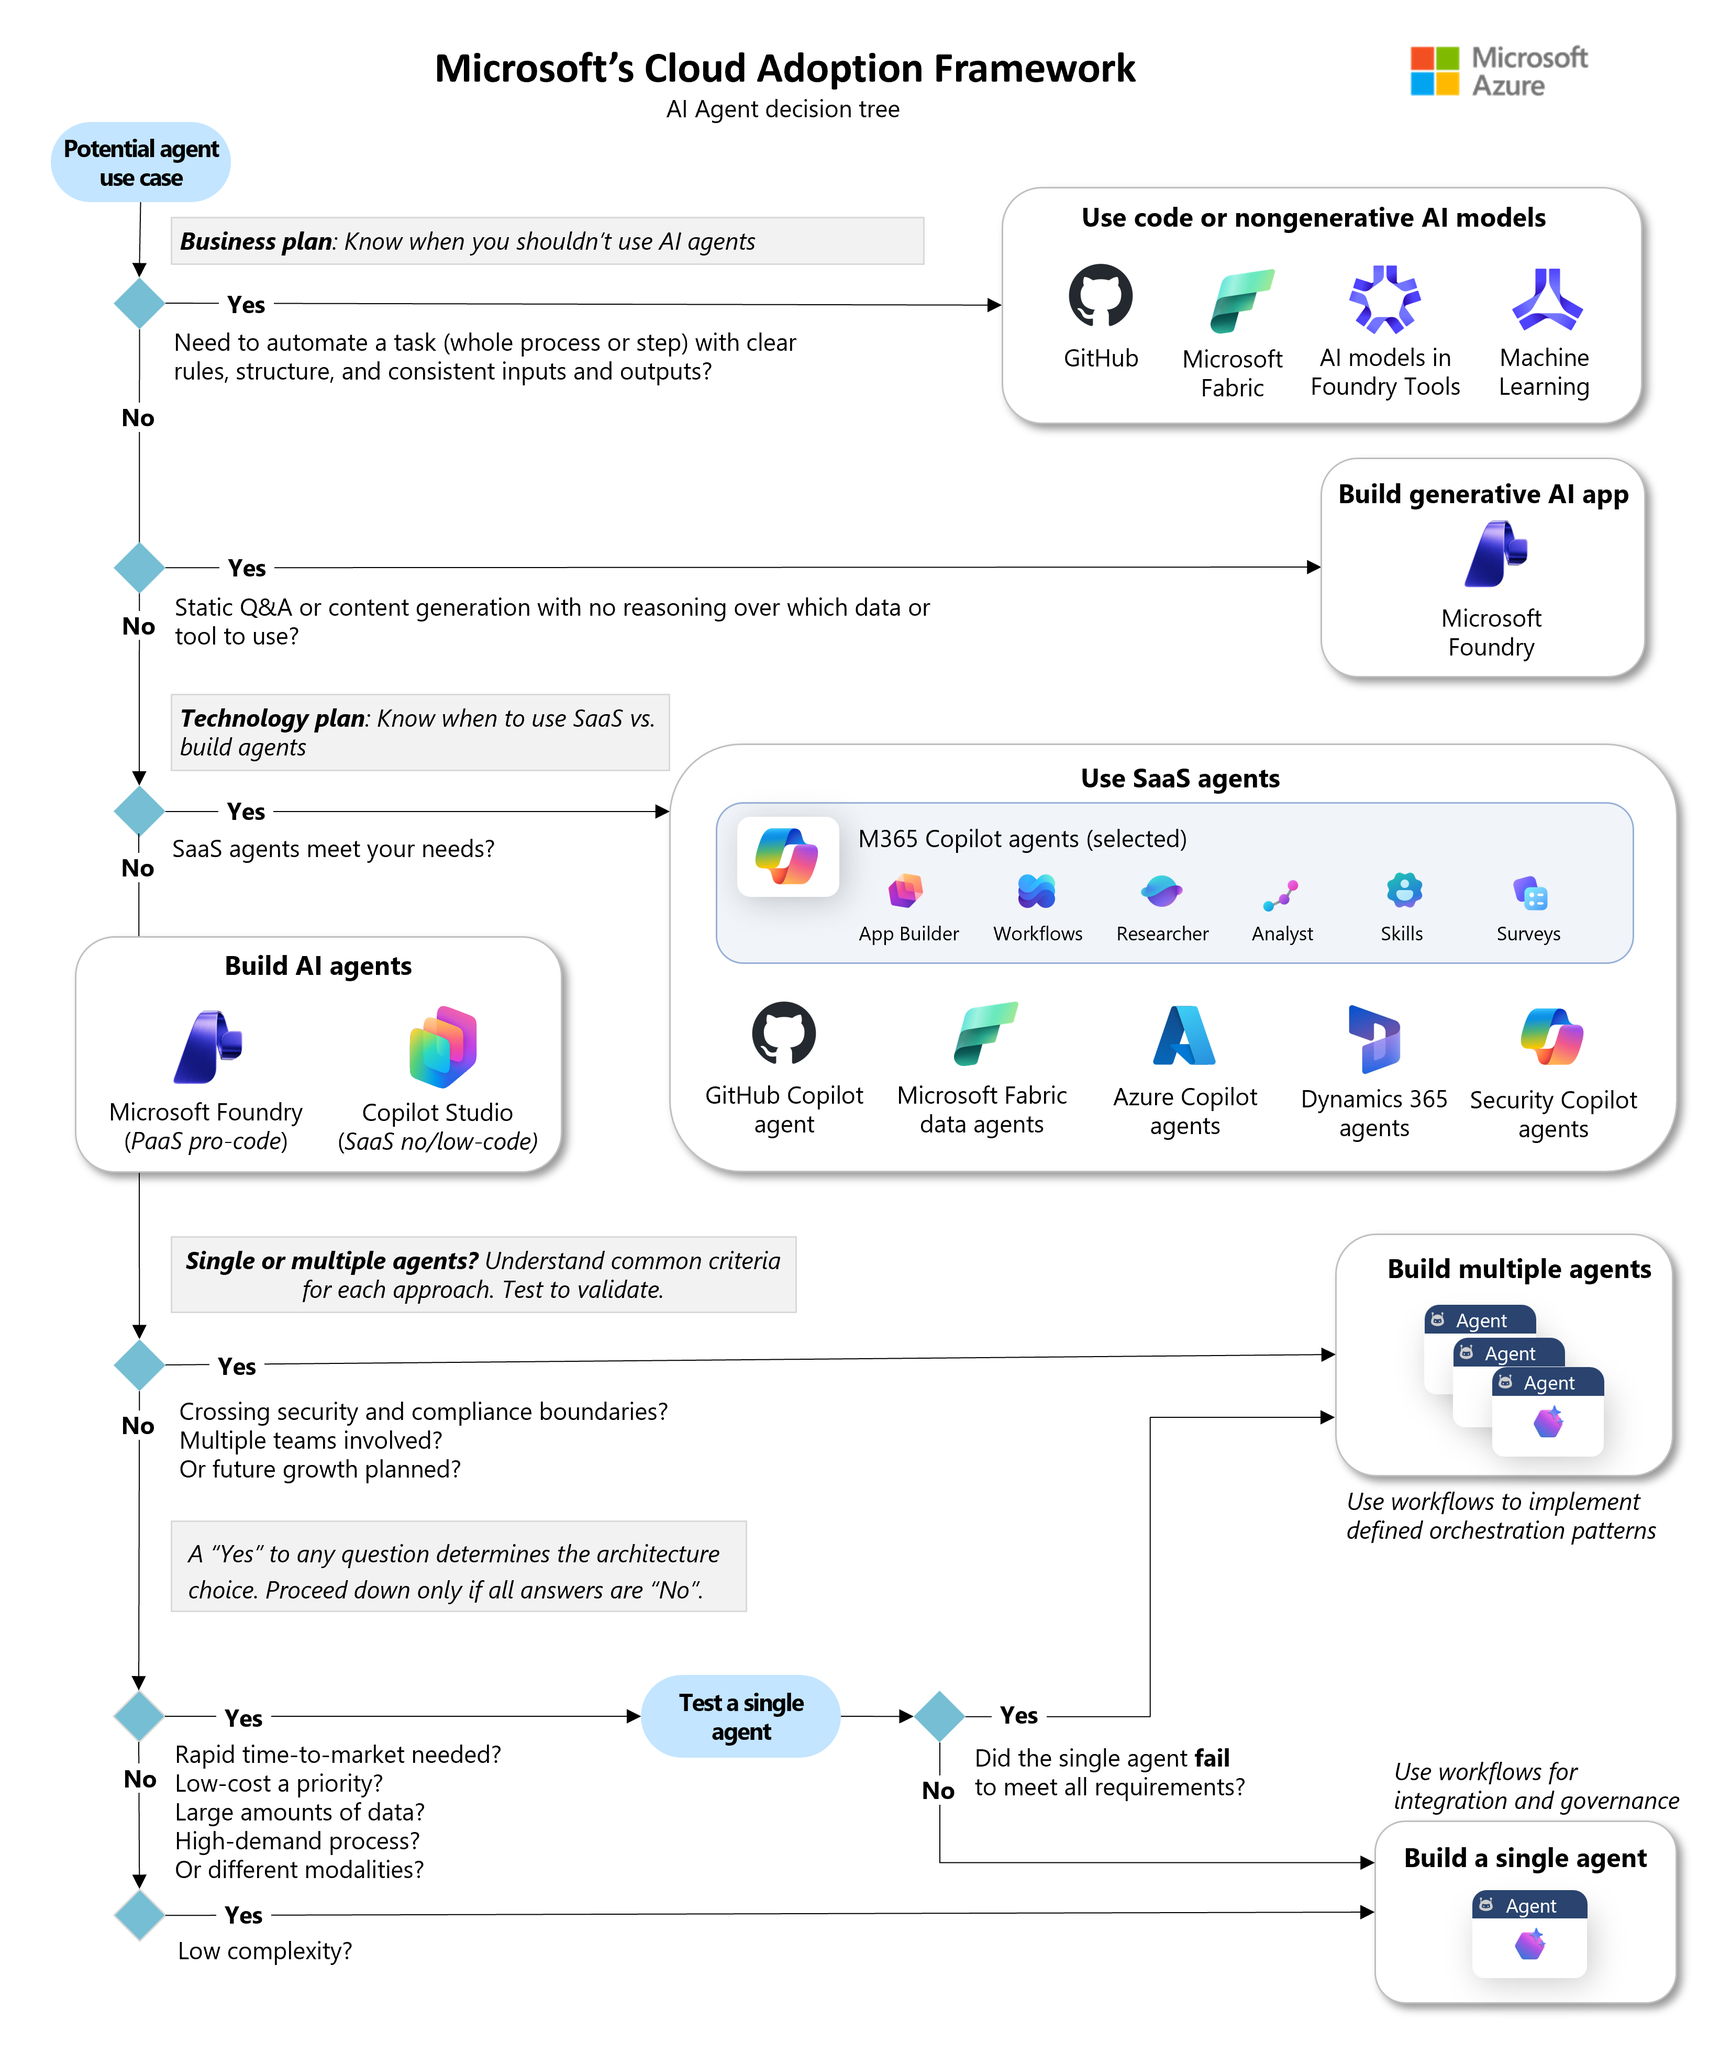
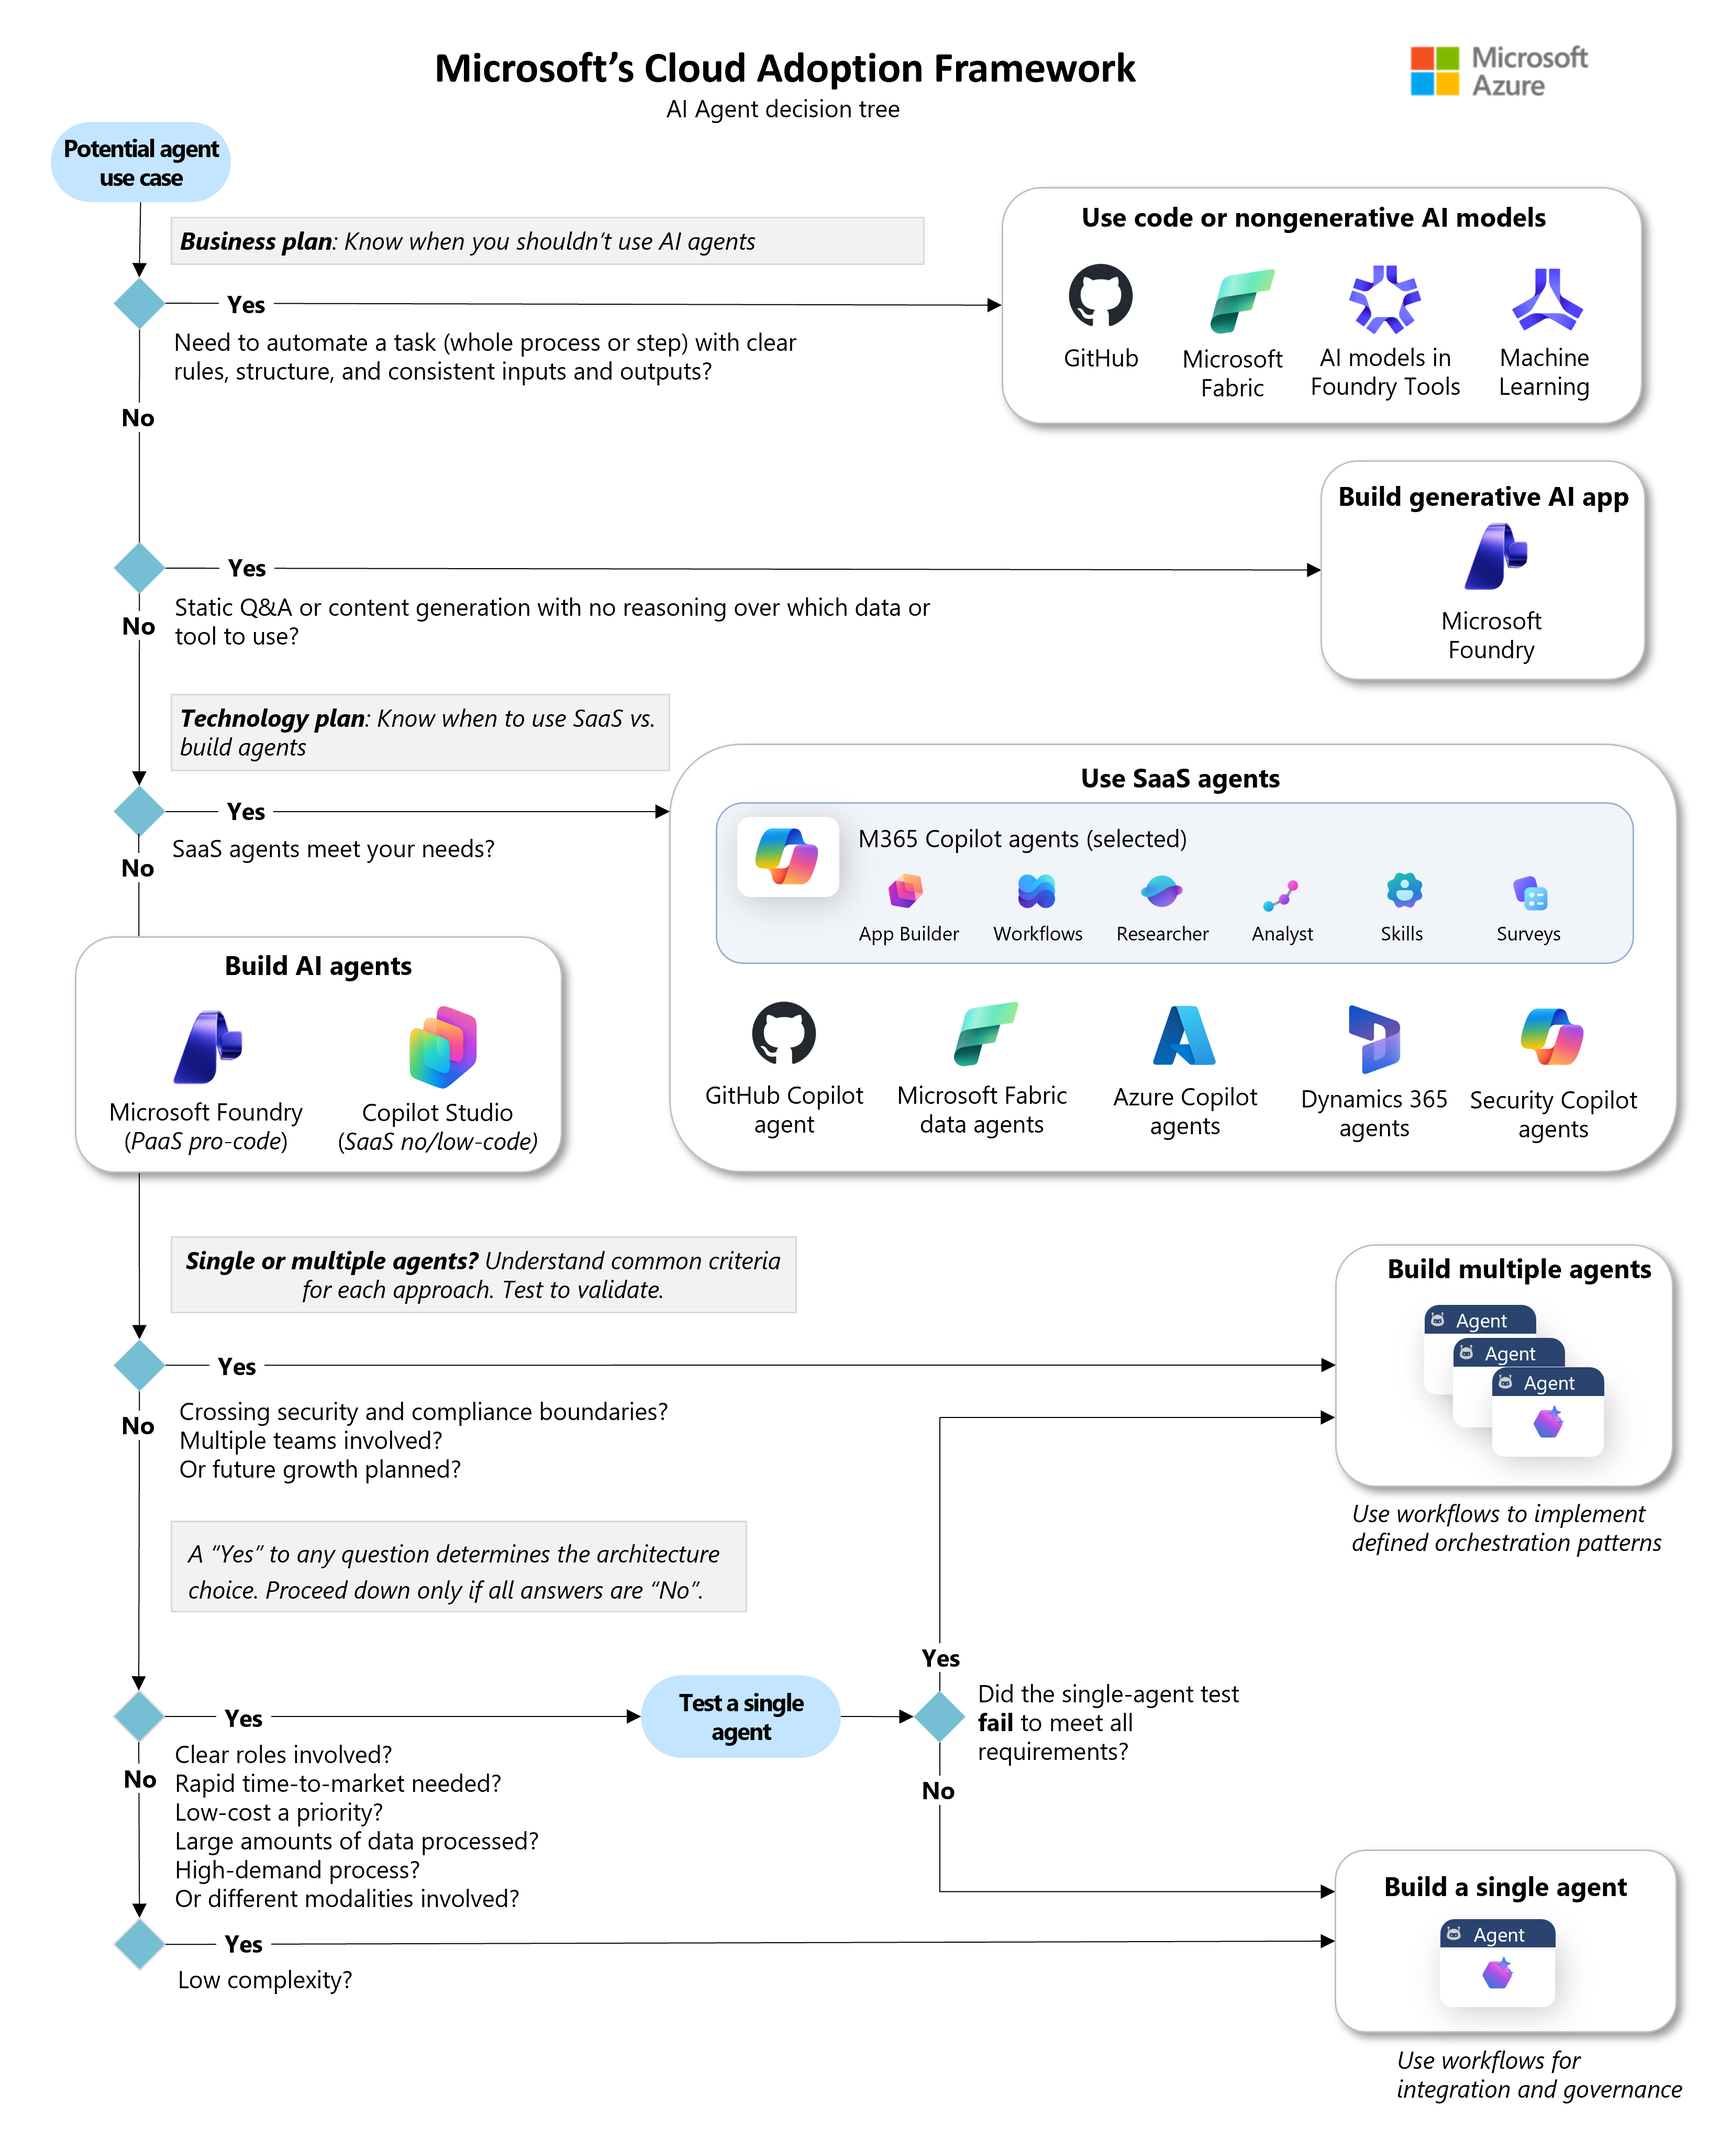
update

diff --git a/docs/ai-agents/single-agent-multiple-agents.md b/docs/ai-agents/single-agent-multiple-agents.md
@@ -29,7 +29,7 @@ Multi-agent systems employ specialized agents to handle distinct tasks or roles 
 
 ### Mutli-agent orchestration and workflows
 
-Multi-agent systems use workflows to enforce orchestration patterns. See [AI agent orchestration patterns](/azure/architecture/ai-ml/guide/ai-agent-design-patterns) in the Azure Architecture Center. Without a workflow, manual chaining of agents becomes brittle and difficult to maintain. Workflows provide:
+Multi-agent systems use workflows to enforce [orchestration patterns](/azure/architecture/ai-ml/guide/ai-agent-design-patterns) in the Azure Architecture Center. Without a workflow, manual chaining of agents becomes brittle and difficult to maintain. Workflows provide:
 
 | Workflow capability | Purpose |
 |---|---|
@@ -48,17 +48,17 @@ In addition to coordination requirements, each interaction requires protocol des
 
 Teams often default to multi-agent architectures based on untested assumptions about complexity, performance, or role separation. Before committing to orchestration overhead, always start with a single-agent prototype and validate whether it meets requirements. Move to multi-agent only if testing shows clear limitations. Focus prototyping on these decision drivers:
 
-1. **Rapid time-to-market.** Single agents are simpler and faster to implement. Start with a single-agent prototype to validate speed and user feedback before considering multi-agent architectures. This approach minimizes initial development time and allows for quicker iteration based on real-world usage.
+1. **Clear roles identified.** Prototype with a single agent using persona-switching or distinct system prompts. Adopt multi-agent designs only if strict security boundaries or distinct organizational ownership make a unified agent insufficient. Many role-based requirements can be met by a single agent dynamically adjusting its behavior based on context.
 
-2. **Cost efficiency.** Single-agent designs minimize token usage and API call volume. Prototype with a single agent first to confirm cost benefits before adding orchestration complexity. Multi-agent systems often multiply costs through redundant context processing and inter-agent communication, so validating the necessity of this expense is crucial.
+2. **Rapid time-to-market.** Single agents are simpler and faster to implement. Start with a single-agent prototype to validate speed and user feedback before considering multi-agent architectures. This approach minimizes initial development time and allows for quicker iteration based on real-world usage.
 
-3. **Large amounts of data.** Test whether a single agent with Retrieval-Augmented Generation (RAG) or extended context windows can handle the required data volume. Move to multi-agent architectures only if context degradation or hallucination occurs during testing. Often, efficient data retrieval strategies can resolve capacity issues without the need for multiple agents.
+3. **Cost efficiency.** Single-agent designs minimize token usage and API call volume. Prototype with a single agent first to confirm cost benefits before adding orchestration complexity. Multi-agent systems often multiply costs through redundant context processing and inter-agent communication, so validating the necessity of this expense is crucial.
 
-4. **Clear roles identified.** Prototype with a single agent using persona-switching or distinct system prompts. Adopt multi-agent designs only if strict security boundaries or distinct organizational ownership make a unified agent insufficient. Many role-based requirements can be met by a single agent dynamically adjusting its behavior based on context.
+4. **Large amounts of data.** Test whether a single agent with Retrieval-Augmented Generation (RAG) or extended context windows can handle the required data volume. Move to multi-agent architectures only if context degradation or hallucination occurs during testing. Often, efficient data retrieval strategies can resolve capacity issues without the need for multiple agents.
 
 5. **High-demand process.** Measure throughput and latency with a single agent under load. Move to multi-agent architectures only if parallelization provides significant, measurable gains. While multi-agent systems can offer concurrency, the overhead of coordination can sometimes negate performance benefits in simpler high-demand scenarios.
 
-6. **Different modalities.** Start with a single multimodal model and appropriate tools. Use multi-agent architectures only if specialized models deliver critical performance or cost advantages that a generalist model cannot match. Specialized agents are justified when specific modalities (like complex image analysis or audio processing) require distinct optimization or resource allocation.
+6. **Different modalities involved.** Start with a single multimodal model and appropriate tools. Use multi-agent architectures only if specialized models deliver critical performance or cost advantages that a generalist model cannot match. Specialized agents are justified when specific modalities (like complex image analysis or audio processing) require distinct optimization or resource allocation.
 
 ## Build a single agent system
 

diff --git a/AGENTS.md b/AGENTS.md
@@ -1,6 +1,5 @@
 **Purpose:**  
-Review existing guidance so it is practical. Rather than providing guidance that covers everything concisely, focus on the major decision points and provide enough context so that they are successful with those understand what they need to do.
-
+Ensure the guidance is practical for enterprise architects. Rather than providing guidance that covers everything concisely, focus on the major decision points and provide enough context so that they are successful with those understand what they need to do. The output should help readers make informed decisions. Focus on the most important guidance so that the guidance there is well understood and explained but the overall length of the article is still actionable.
 
 *   **Business and Strategy Guidance (Implicitly targets CTOs and C-suite)**
     *   Align technology decisions with business strategy and competitive advantage.
@@ -11,10 +10,6 @@ Review existing guidance so it is practical. Rather than providing guidance that
     *   Ensure scalability, compliance, and security governance.
     *   Drive modernization and consistent cloud adoption patterns.
     *   Architecture cohesion: How all workloads fit together.
-
-The output should help readers make informed decisions. Focus on the most important recommendations and best practices so the guidance is not too long and easily actionable.
-
-***
 
 #### **Core Objectives**
 
@@ -35,7 +30,7 @@ The output should help readers make informed decisions. Focus on the most import
 
 The agent should **address priorities without naming roles explicitly**. Adjust the altitude of the guidance based on the subject matter:
 
-1.  **For Business and Strategy topics:** Speak to value, risk, and strategic alignment (C-suite concerns).
+1.  **For Business and Strategy topics:** Speak to ROI, value, risk, and strategic busiess alignment (C-suite concerns).
 2.  **For Governance, Security, and Estate Planning:** Speak to standards, cohesion, and policy (Enterprise Architect concerns).
 
 **Instruction:**  
@@ -45,12 +40,7 @@ Do **not** create separate sections for persona or mention them by name. Instead
 
 #### **Grounding and Accuracy Rules**
 
-*   Use only **information from the provided source content, grounding files, and MCP servers**.
 *   Verify technical accuracy against the grounding data.
-*   If existing recommendations are incorrect or incomplete, **update them based on the grounded information**.
-*   Do **not invent new recommendations** beyond what is supported by the grounding data.
-
-***
 
 #### **Content Rules**
 
@@ -62,7 +52,7 @@ Do **not** create separate sections for persona or mention them by name. Instead
         *   Why this matters.
         *   What trade-offs exist.
         *   How it supports organizational goals.
-*   Use **headings** for major topics; use **numbered steps** for multi-step processes.
+*   Use **headings** for major topics. Use **numbered steps** for multi-step processes.
 *   When using numbered lists:
     *   Format each item as:
             1. **[Short imperative or noun phrase].** [Explanatory text starts on the same line.]
@@ -73,6 +63,7 @@ Do **not** create separate sections for persona or mention them by name. Instead
     *   Explicit role names.
     *   Em dashes.
     *   Emotional or marketing language.
+    *   Using ;
 *   Replace:
     *   Gerunds with active verbs.
     *   Future tense with present tense.
@@ -94,7 +85,7 @@ Do **not** create separate sections for persona or mention them by name. Instead
     # [Descriptive Noun Phrase Title]
 
     ## Introduction
-    State the purpose of the guidance and summarize the key decisions and trade-offs.
+    "This article ..." then summarize what the reader will learn. State why this is important to the key persona(s).
 
     ## [Section Heading]
     Explain the decision point, available options, trade-offs, and best practices. Provide concise, actionable recommendations with supporting rationale.
